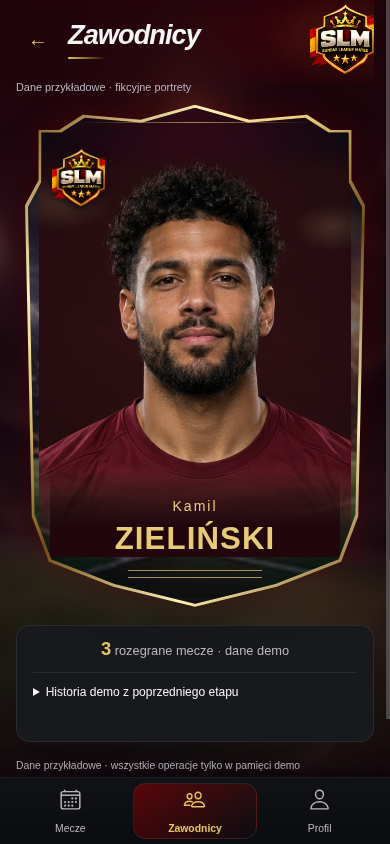
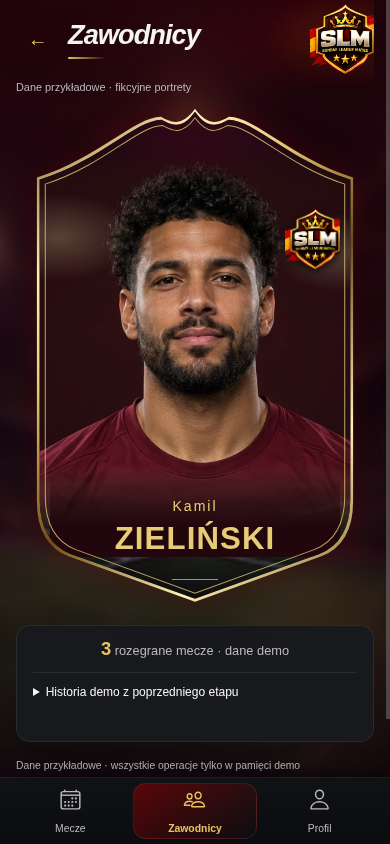
fix(demo): align Ultimate card frame with supplied reference

Changed region(s): [[0.0615, 0.1232, 0.9538, 0.7393]]

diff --git a/app/src/demo/UltimatePlayerCard.tsx b/app/src/demo/UltimatePlayerCard.tsx
@@ -3,12 +3,14 @@ import type { CSSProperties, Ref } from 'react';
 export interface CardPortrait { src: string; column?: 0 | 1; row?: 0 | 1 }
 export default function UltimatePlayerCard({ name, portrait, jerseyNumber, headingRef }: { name: string; portrait?: CardPortrait; jerseyNumber?: number; headingRef?: Ref<HTMLHeadingElement> }) {
   const title=useId();
+  const shield=useId();
+  const silhouette="M .5 .008 C .46 .045 .43 .035 .4 .024 C .32 .025 .22 .105 .035 .145 L .035 .79 Q .035 .875 .13 .9 L .5 .99 L .87 .9 Q .965 .875 .965 .79 L .965 .145 C .78 .105 .68 .025 .6 .024 C .57 .035 .54 .045 .5 .008 Z";
   const [failedSource,setFailedSource]=useState<string|null>(null);
   const parts=name.trim().split(/\s+/u),surname=parts.length>1?parts.slice(1).join(' '):parts[0];
   const initials=parts.slice(0,2).map(part=>Array.from(part)[0]).join('');
   const sheet=portrait?.column!==undefined&&portrait?.row!==undefined;
   const showPortrait=portrait&&portrait.src!==failedSource;
-  return <div className="slm-ultimate-shell"><article className="slm-ultimate-card" aria-labelledby={title}>
+  return <div className="slm-ultimate-shell"><svg width="0" height="0" aria-hidden="true" focusable="false"><defs><clipPath id={shield} clipPathUnits="objectBoundingBox"><path d={silhouette}/></clipPath></defs></svg><article className="slm-ultimate-card" aria-labelledby={title} style={{'--slm-shield':`url(#${shield})`} as CSSProperties}>
     <div className="slm-ultimate-inner"><div className="slm-ultimate-stadium" aria-hidden="true"/>
       <img className="slm-ultimate-crest" src="/assets/branding/slm-logo-primary-transparent.png" width="450" height="505" alt="Herb Sunday League Mates"/>
       {jerseyNumber!==undefined&&<span className="slm-ultimate-number" aria-label={`Numer koszulki ${jerseyNumber}`}>{jerseyNumber}</span>}
@@ -17,6 +19,7 @@ export default function UltimatePlayerCard({ name, portrait, jerseyNumber, headi
       </div>
       <div className="slm-ultimate-nameplate"><h2 ref={headingRef} tabIndex={-1} id={title}>{parts.length>1&&<span>{parts[0]} </span>}<strong>{surname}</strong></h2></div>
       <span className="slm-ultimate-filigree" aria-hidden="true"/>
+      <svg className="slm-ultimate-rim" viewBox="0 0 1 1" preserveAspectRatio="none" aria-hidden="true" focusable="false"><path d={silhouette} transform="translate(.018 .012) scale(.964 .976)"/></svg>
     </div>
   </article></div>;
 }

diff --git a/app/src/theme/variables.css b/app/src/theme/variables.css
@@ -479,3 +479,17 @@ ion-toolbar:has(.slm-shell-header) { --background:var(--slm-brand-header-bg); }
 /* 3.9 visual pass3: etched crown line; direct portrait replacement needs only src. */
 .slm-ultimate-card::after { content:''; position:absolute; z-index:5; left:16%; right:16%; top:17px; height:1px; opacity:.65; pointer-events:none; background:linear-gradient(90deg,transparent,var(--slm-ultimate-gold),transparent); }
 .slm-ultimate-portrait[data-layout="single"] > img { width:100%; height:100%; object-fit:contain; }
+
+/* Ultimate reference supplied after3.9: curved crown and fine double gold rim. */
+.slm-ultimate-shell > svg { position:absolute; }
+.slm-ultimate-crest { left:auto; right:22px; top:100px; width:55px; }
+.slm-ultimate-number { right:auto; left:26px; top:90px; }
+.slm-ultimate-rim { position:absolute; inset:0; z-index:5; width:100%; height:100%; pointer-events:none; overflow:visible; }
+.slm-ultimate-rim path { fill:none; stroke:var(--slm-ultimate-gold); stroke-width:1px; vector-effect:non-scaling-stroke; opacity:.8; }
+.slm-ultimate-card::after { display:none; }
+.slm-ultimate-inner::after { display:none; }
+.slm-ultimate-inner::before { opacity:.23; background:radial-gradient(ellipse 24% 9% at 9% 26%,var(--slm-ultimate-light),transparent),radial-gradient(ellipse 20% 8% at 93% 29%,var(--slm-ultimate-light),transparent); }
+.slm-ultimate-portrait { mask-image:linear-gradient(transparent,black 8%,black 77%,transparent); }
+
+/* Reference follow-up pass2: keep ornamental line inside the tapered foot. */
+.slm-ultimate-filigree { bottom:24px; left:43%; right:43%; height:0; border-bottom:0; }

diff --git a/docs/ui/PREMIUM39_VISUAL_REVIEW.md b/docs/ui/PREMIUM39_VISUAL_REVIEW.md
@@ -85,3 +85,25 @@ Nie zmieniono produkcyjnych stron, modelu backendu, finansów, RPC/RLS/migracji,
 Firebase ani vercel.json. Cypress niewykonany (brak Xvfb), Android/iOS/realny backend
 nieweryfikowane, duże chunki Ionic nadal. Bez merge/ręcznego deploy; Vercel auto
 niezweryfikowany. Brak referencji to istotna granica oceny zgodności wizualnej.
+
+## Uzupełnienie po otrzymaniu właściwej koncepcji Ultimate
+
+Oryginał [dwóch telefonów](reference/slm-ultimate-player-card-concept.jpg)
+użytkownik dostarczył po implementacji3.9. Obraz rzeczywiście otwarto i porównano
+z premium39-player-card-dark.png. Powyższy opis braku obrazu jest historyczny.
+
+Różnice przed korektą: schodkowe/kanciaste barki tarczy zamiast płynnej korony,
+pojedynczy mocny obrys zamiast dwóch cienkich złotych linii, herb po lewej zamiast
+po prawej, zbyt prosty górny ornament. Zmieniono krzywą SVG w clipPath objectBoundingBox
+(z unikalnym id React useId dla wielu kart) i dodano niezależną linię wewnętrzną
+z non-scaling-stroke. Rama nadal skalowalna340:502, portrety/herb bez edycji.
+Przesunięto herb na prawą stronę, wzmocniono dwa lokalne refleksy. Po pierwszym
+rzeczywistym renderze przeniesiono dolny ornament do wnętrza zwężenia ramki.
+Ponownie wyrenderowano Chromium; zrzuty premium39-* odświeżone.
+
+Nadal inne: portrety frontalne do klatki piersiowej zamiast zdjęcia trzy czwarte
+i koszulki z większą ilością tułowia; ciemne tło samych zdjęć ogranicza widoczność
+stadionu. Nie zmieniano tożsamości zdjęć ani zatwierdzonego herbu, nie kopiowano
+znaków odzieżowych koncepcji. Brak numeru/pozycji w danych — nie wymyślono ich.
+Nie implementowano paneli ocen, mediów, rozszerzonych statystyk ani przycisku koszulki
+z referencji. Nie deklarujemy zgodności pikselowej ani gotowości produkcyjnej.

diff --git a/AGENTS.md b/AGENTS.md
@@ -3,7 +3,8 @@
 - UltimatePlayerCard: własna złoto-bordowa tarcza, zdjęcie/herb/nazwisko, brak ocen
   i danych fizycznych. 4 fikcyjne portrety w assets/demo/fictional-portraits.webp
   przypisane stale20 osobom; single-src i fallback inicjałów. Koncepcja Ultimate
-  nie była dostarczona — nie mylić nowych portretów z zaakceptowaną referencją.
+  dostarczona później: docs/ui/reference/slm-ultimate-player-card-concept.jpg.
+  Nie mylić osobnych fikcyjnych portretów z tą referencją.
   Historia3.8 zwinięta, nie budować teraz nowego panelu statystyk. Kosz własnego
   gościa z potwierdzeniem, ownership/idempotencja w reducerze demo; profil/rezerwa/
   wpłaty zachowane, brak obejścia przez withdraw gościa innego zapraszającego.

diff --git a/docs/UI_BETA.md b/docs/UI_BETA.md
@@ -1,3 +1,12 @@
+# Ultimate3.9 — otrzymana referencja, 2026-10-18 17:11:13 CEST
+
+Oryginał użytkownika zapisany i obejrzany: ui/reference/slm-ultimate-player-card-concept.jpg.
+Zaktualizowano wyłącznie kartę demo: krzywe korony/ramy, podwójny złoty obrys,
+herb po prawej i światło. Bez rozbudowy statystyk/ocen/mediów i bez nowych portretów.
+Portrety frontalne nadal różnią się od ujęcia trzy czwarte w koncepcji.
+Starsze wpisy o braku referencji opisują stan sprzed jej dostarczenia.
+Szczegóły w ui/PREMIUM39_VISUAL_REVIEW.md i ODPOWIEDZI_CODEX.txt.
+
 # Premium España3.4 — szczegóły i Uczestnicy
 
 Home3.3 zachowany: końcowe Dark/Light są bajtowo identyczne. Zmiany tylko szczegółów:

diff --git a/docs/STATUS.md b/docs/STATUS.md
@@ -1,3 +1,12 @@
+# Ultimate3.9 — otrzymana referencja, 2026-10-18 17:11:13 CEST
+
+Oryginał użytkownika zapisany i obejrzany: ui/reference/slm-ultimate-player-card-concept.jpg.
+Zaktualizowano wyłącznie kartę demo: krzywe korony/ramy, podwójny złoty obrys,
+herb po prawej i światło. Bez rozbudowy statystyk/ocen/mediów i bez nowych portretów.
+Portrety frontalne nadal różnią się od ujęcia trzy czwarte w koncepcji.
+Starsze wpisy o braku referencji opisują stan sprzed jej dostarczenia.
+Szczegóły w ui/PREMIUM39_VISUAL_REVIEW.md i ODPOWIEDZI_CODEX.txt.
+
 # Premium España3.9 — 2026-10-18 17:04:43 CEST
 
 Implementacja fc60370068e0c01e452b144122df540d6405ef57, push zakończony.
